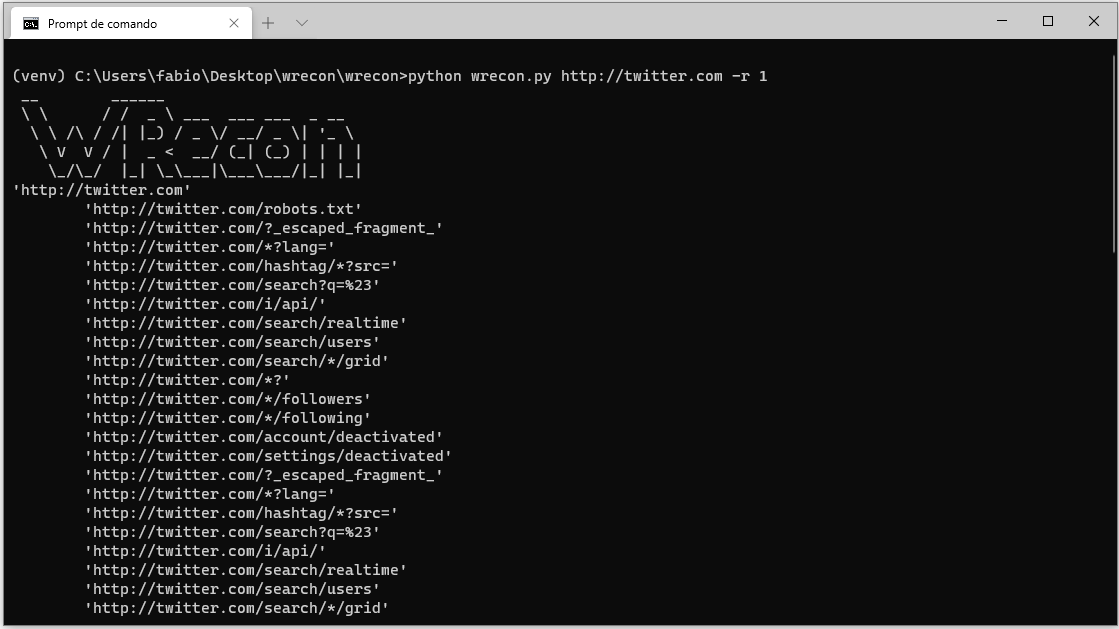
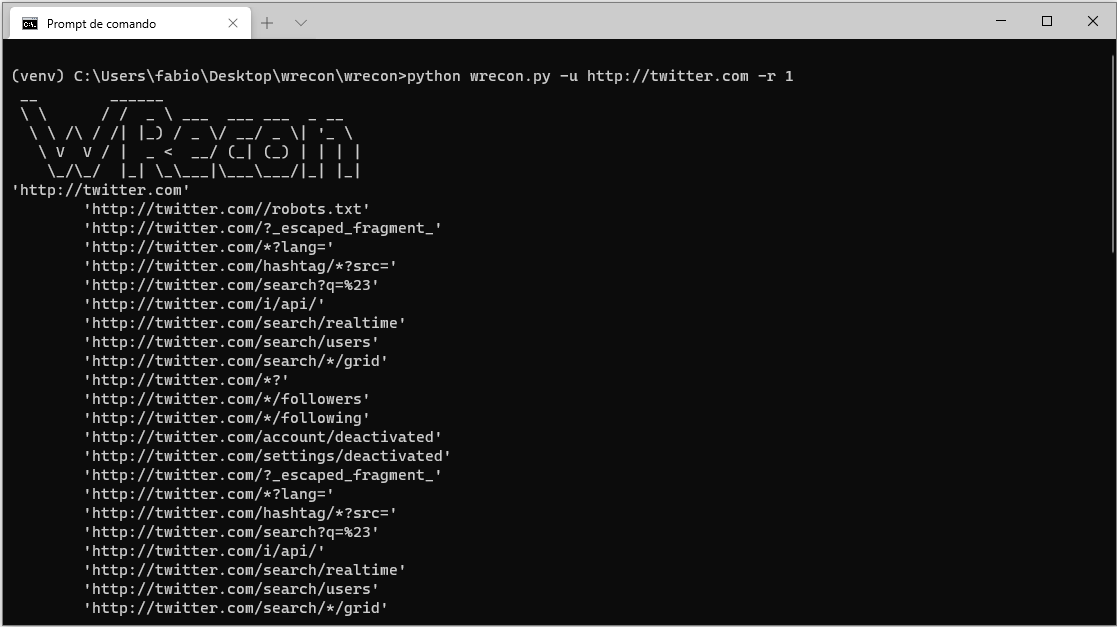
unittest

diff --git a/wrecon/wrecon.py b/wrecon/wrecon.py
@@ -1,4 +1,4 @@
-import requests,  urllib3
+import requests,  urllib3, argparse, sys
 from urllib.parse import urlparse, urljoin
 from bs4 import BeautifulSoup
 import colorama
@@ -13,9 +13,9 @@ GRAY = colorama.Fore.LIGHTBLACK_EX
 RESET = colorama.Fore.RESET
 RED = colorama.Fore.RED
 
-boolean = False
+scan_robots_and_sitemap = False
 
-# Clase de arvore de url
+# Url tree class
 class Tree (object):
     def __init__(self, data):
         self.children = []
@@ -30,13 +30,22 @@ class Tree (object):
     def __repr__(self):
         return '<tree node representation>'
 
+class Wrecon:
+
+    def parse_args(args):
+        parser = argparse.ArgumentParser(description="WRecon")
+        parser.add_argument("-u", "--url", help="Url link")
+        parser.add_argument("-r", "--max-urls", help="Maximum number of recursive calls, default is one.", default=1, type=int)
+        
+        return parser.parse_args()
+
 def crawl(url):
-    ##Retorna todos os URLs encontradas entre as tags
+    ##Returns all URLs found between tags
     children =[]
-    global boolean
-    if not boolean: 
+    global scan_robots_and_sitemap
+    if not scan_robots_and_sitemap: 
         children =robots(url)
-    boolean = True
+    scan_robots_and_sitemap = True
 
     tags = [["a","href"],["link","href"],["script","src"],["img","src"],["source","src"]]
     try: 
@@ -61,15 +70,15 @@ def crawl(url):
 
 def captura(url,href): 
     ## verifica se é um link dentro das tags    
-    if complementarLinks(href):
+    if is_fragment_identifier(href):
         href = url+'/'+ href
     else:
         href = urljoin(url, href)
-        href_analisada = urlparse(href)
-        href = href_analisada.scheme + "://" + href_analisada.netloc + href_analisada.path
+        href_analize = urlparse(href)
+        href = href_analize.scheme + "://" + href_analize.netloc + href_analize.path
     ## definie se eh url interna ou externa
-    nome_dominio = urlparse(url).netloc
-    if nome_dominio not in href:
+    domain_name = urlparse(url).netloc
+    if domain_name not in href:
         return href  
     else:
         return href
@@ -93,26 +102,29 @@ def valida_call_back_url(url):
 
 
 def robots(url):
-    urls_internas = []
-    link_robots=url+'/robots.txt'
+    urls_scanned = []
+    ## root of website to get the robots.txt and sitemap.xml
+    parsed_uri = urlparse(url)
+    url_raiz = '{uri.scheme}://{uri.netloc}/'.format(uri=parsed_uri)
+    link_robots=url_raiz+'/robots.txt'
     try:
         data = requests.get(link_robots,verify=False, timeout=3)
         if data.status_code == 200:
-            urls_internas.append(Tree(link_robots))
+            urls_scanned.append(Tree(link_robots))
             texto = data.text.splitlines()
             for linha in texto:
                 if ' /' in linha:
                     link = linha.split(' /')[1]
                     if link is not "":
-                            urls_internas.append(Tree(url+'/'+link))
+                            urls_scanned.append(Tree(url+'/'+link))
     except requests.exceptions.Timeout:
                     print('Timeout')
 
-    link_sitemap=url+'/sitemap.xml'
+    link_sitemap=url_raiz+'/sitemap.xml'
     try:
         data = requests.get(link_sitemap,verify=False, timeout=3)
         if data.status_code == 200:
-            urls_internas.append(Tree(link_sitemap))
+            urls_scanned.append(Tree(link_sitemap))
             texto = data.text.splitlines()
             for linha in texto:
                 if '<loc>' in linha:
@@ -121,26 +133,26 @@ def robots(url):
                     link = linha[start:end]
                     if link is not "":
                         insercao = Tree(link)
-                        if insercao not in urls_internas:
-                            urls_internas.append(Tree(link))
+                        if insercao not in urls_scanned:
+                            urls_scanned.append(Tree(link))
     except requests.exceptions.Timeout:
                     print('Timeout')
     except :
                     print('Timeout')
-    return urls_internas
+    return urls_scanned
 
-def complementarLinks(url):
+def is_fragment_identifier(url):
     if url is None:
         return False
     if '#' in url:
         return True
     return False
 
-def url_eh_valida(url):
+def is_valid_url(url):
     urlAnalisada = urlparse(url)
     return bool(urlAnalisada.netloc) and bool(urlAnalisada.scheme)
 
-def inicializa( root,indice):
+def start( root,indice):
     if indice == 1:
         root = crawl(root.data)
         return root
@@ -148,33 +160,25 @@ def inicializa( root,indice):
         root = crawl(root.data)
         for kids in root:
            ## print("kid: "+ kids.data)
-            kids.children =  inicializa(kids,indice-1)     
+            kids.children =  start(kids,indice-1)     
         return root
 
-
-if __name__ == "__main__":
-    import argparse
-    parser = argparse.ArgumentParser(description="WRecon")
-    parser.add_argument("url", help="Extrator de urls")
-    parser.add_argument("-r", "--max-urls", help="Número máximo de chamadas recursivas, default é zero.", default=0, type=int)
-
-
+def main():
+   
     print(" __        ______                      ")
     print(" \ \      / /  _ \ ___  ___ ___  _ __  ")
     print("  \ \ /\ / /| |_) / _ \/ __/ _ \| '_ \ ")
     print("   \ V  V / |  _ <  __/ (_| (_) | | | |")
     print("    \_/\_/  |_| \_\___|\___\___/|_| |_|")
     
-    args = parser.parse_args()
+    args = Wrecon.parse_args(sys.argv[1:])
     url = args.url
     max_urls = args.max_urls
-
-    parsed_uri = urlparse(url)
-    url_raiz = '{uri.scheme}://{uri.netloc}/'.format(uri=parsed_uri)
-    indice=0
     
     root = Tree(url)
-    
-    root.children = inicializa (root,max_urls)
+    root.children = start (root,max_urls)
 
     print(root)
+    
+if __name__ == '__main__':
+    main()

diff --git a/tests/test_wrecon.py b/tests/test_wrecon.py
@@ -1,0 +1,35 @@
+import unittest
+import sys
+sys.path.append("..//wrecon//")
+from wrecon import Tree
+from wrecon import Wrecon
+
+class Test(unittest.TestCase):
+
+    def test_simple_tree(self):
+        c= Tree("test")
+        self.assertEqual(c.data, "test", "Most be test")
+
+    def test_tree_with_nodes(self):
+        a= Tree("test")
+        b= Tree("node")
+        a.children = b
+        self.assertEqual(a.children.data, "node", "Most be node")
+    
+    def test_main_valid_max_urls(self):
+        argv1 = ['-u', 'target', '-r', '1']
+        parser = Wrecon.parse_args(argv1)
+        self.assertEqual(parser.max_urls, 1)
+
+    def test_main_valid_default_max_urls(self):
+        argv1 = ['-u', 'target']
+        parser = Wrecon.parse_args(argv1)
+        self.assertEqual(parser.max_urls, 1),
+
+    def test_main_valid_url(self):
+        argv1 = ['--url target', '-r', '1']
+        parser = Wrecon.parse_args(argv1)
+        self.assertEqual(parser, 'target')
+
+if __name__ == '__main__':
+    unittest.main()

diff --git a/setup.py b/setup.py
@@ -1,8 +1,12 @@
 from setuptools import setup
+from os import path
 
+this_directory = path.abspath(path.dirname(__file__))
+with open(path.join(this_directory, 'README.md'), encoding='utf-8') as f:
+    long_description = f.read()
 
 setup(name='wrecon',
-      version='0.1',
+      version='0.3',
       description='WRecon is an open source no intussive web scanner. It is designed to discover all URL in a website recursively, without using bruteforce or unauthorized access. It comes with a camouflage engine and nice features for pentesting.',
       url='https://github.com/fabiodelgadopereira/wrecon',
       author='Fabio Delgado',
@@ -14,5 +18,6 @@ setup(name='wrecon',
         'requests',
         'bs4',
         'colorama',
-    ],
+    ],long_description=long_description,
+     long_description_content_type='text/markdown',
       zip_safe=False)

diff --git a/README.md b/README.md
@@ -1,11 +1,11 @@
-# WRecon !
+# WRecon 
 
 WRecon is an open source no intussive web scanner. It is designed to discover all URL in a website recursively, without using bruteforce or unauthorized access. It comes with a camouflage engine and nice features for pentesting.
 
 Screenshots
 ----
 
-![Screenshot](/Assets/screenshot.png)
+![Screenshot](https://raw.githubusercontent.com/fabiodelgadopereira/wrecon/master/Assets/screenshot.png)
 
 Installation
 ----
@@ -21,8 +21,8 @@ Usage
 
 To get a list of basic options and switches use:
 
-    python WRecon.py -h
+    python wrecon.py -h
 
 Simple usage:
 
-    python WRecon.py http://target -r 1
+    python wrecon.py -u http://target -r 1
